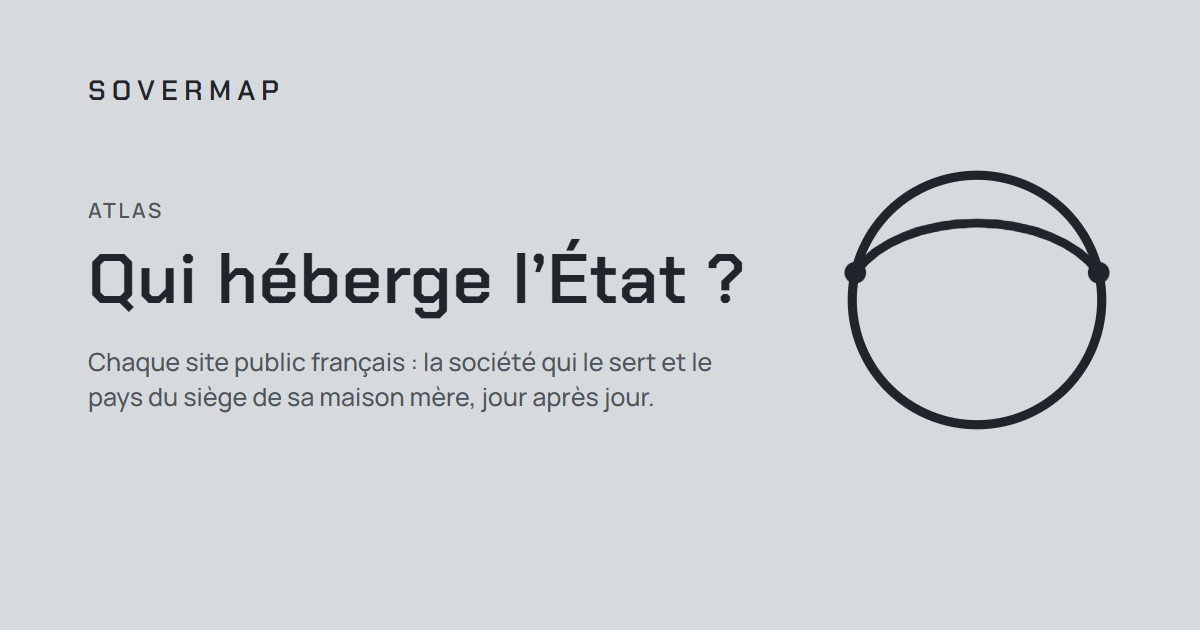
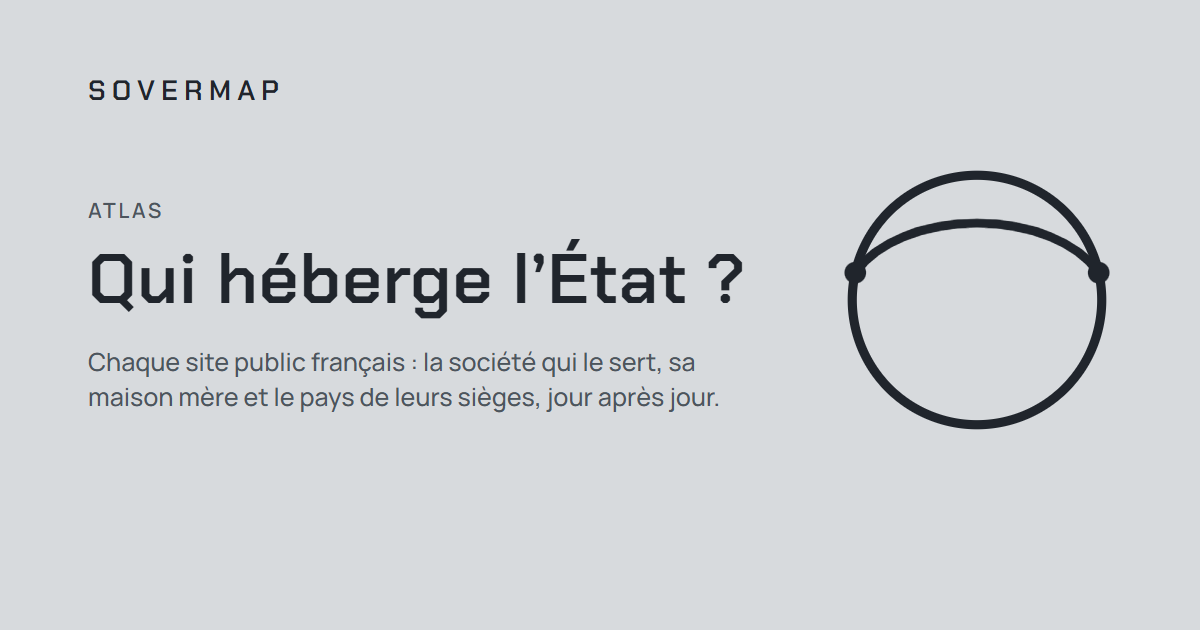
fix(partage): the home page's and a ministry's share images follow rule C2-4
Their sentence still said « le pays du siège de sa maison mère » alone;
since method 0.3, a site depends on the seat of the company that serves
it or of its ultimate parent. They now name the operator, its parent and
the country of their seats; the ministry's sentence is shorter, so that
it holds on two lines. public/partage/accueil.png and ministere.png
drawn again by scripts/design/partage.ts; the three other images come
out the same to the byte.

Changed region(s): [[0.0617, 0.5429, 0.5858, 0.6635]]

diff --git a/lib/i18n/fr.ts b/lib/i18n/fr.ts
@@ -45,7 +45,7 @@ export const fr = {
     accueil: {
       etiquette: "Atlas",
       question: `Qui héberge l’État${NBSP}?`,
-      phrase: `Chaque site public français${NBSP}: la société qui le sert et le pays du siège de sa maison mère, jour après jour.`,
+      phrase: `Chaque site public français${NBSP}: la société qui le sert, sa maison mère et le pays de leurs sièges, jour après jour.`,
     },
     radiographie: {
       etiquette: "Radiographie",
@@ -55,8 +55,7 @@ export const fr = {
     ministere: {
       etiquette: "Ministère",
       question: `Qui héberge ses sites${NBSP}?`,
-      phrase:
-        "Les sites d’un ministère, la société ou l’organisme qui sert chacun d’eux et le pays du siège de sa maison mère.",
+      phrase: `Les sites d’un ministère${NBSP}: l’exploitant de chacun, sa maison mère et le pays de leurs sièges.`,
     },
     societe: {
       etiquette: "Exploitant",
